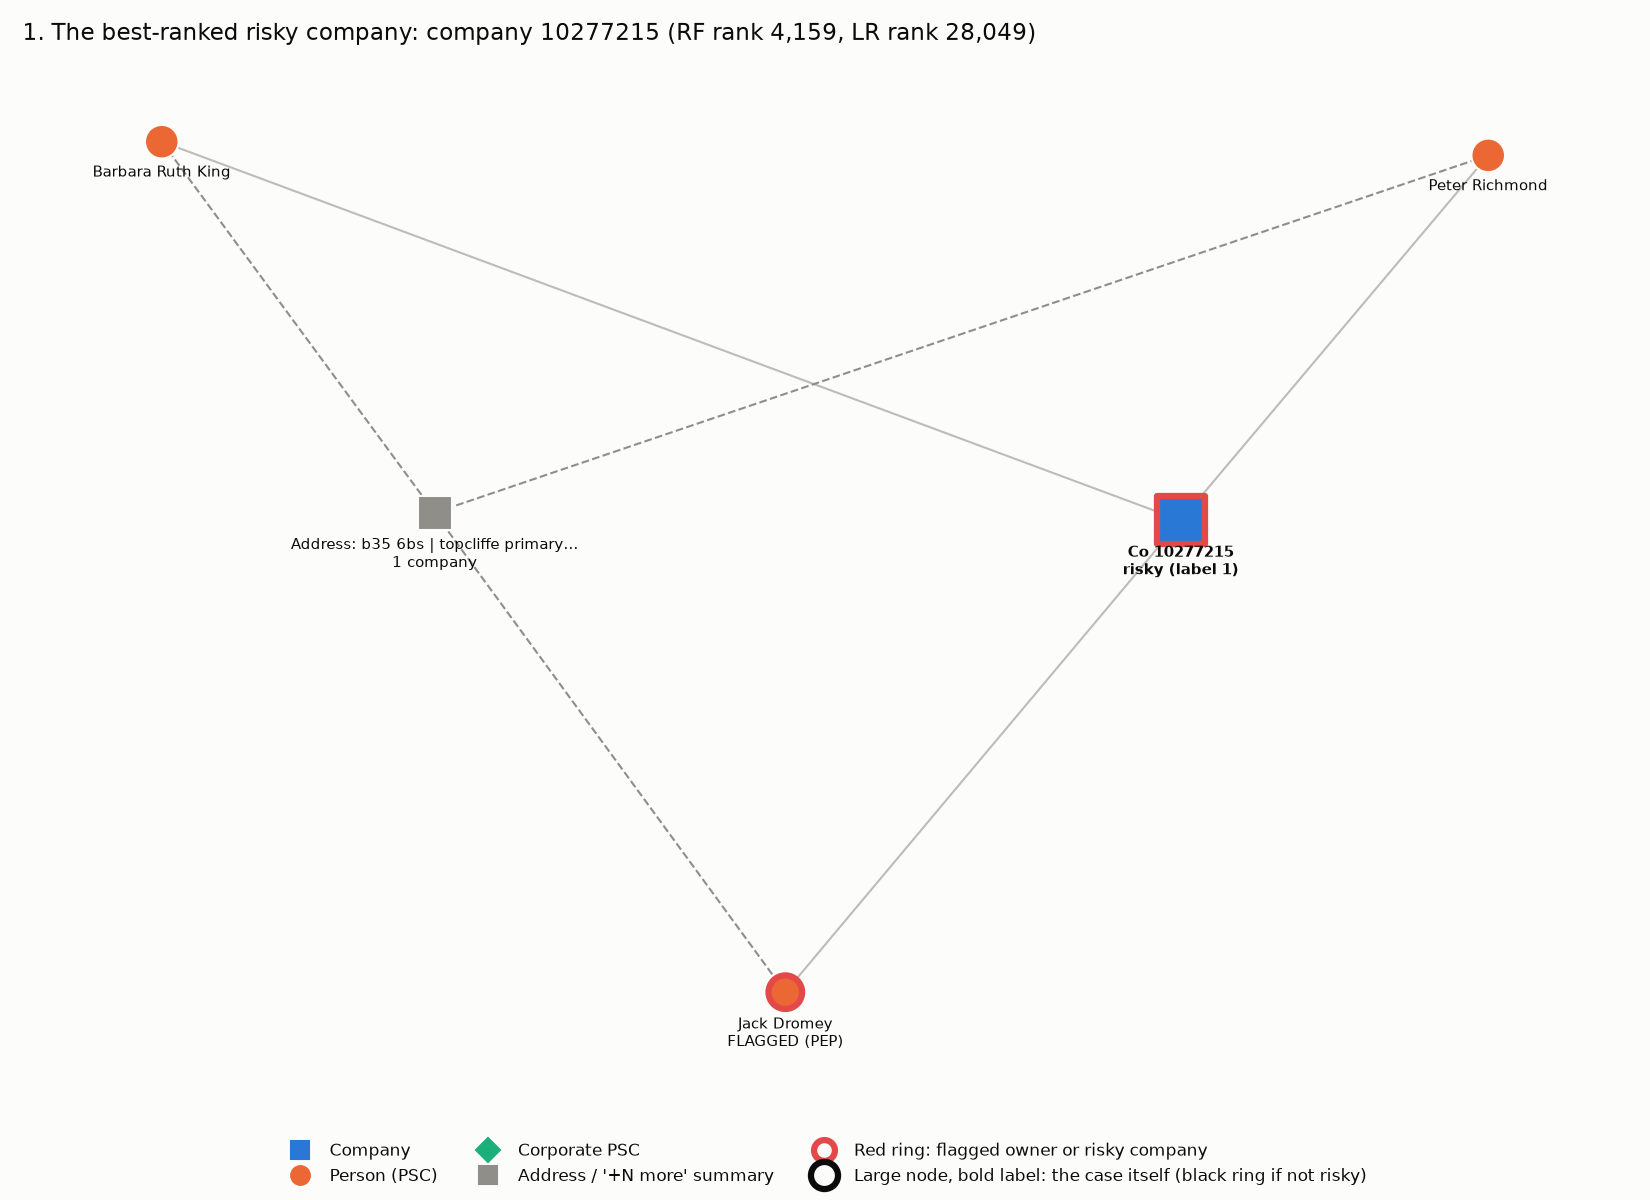
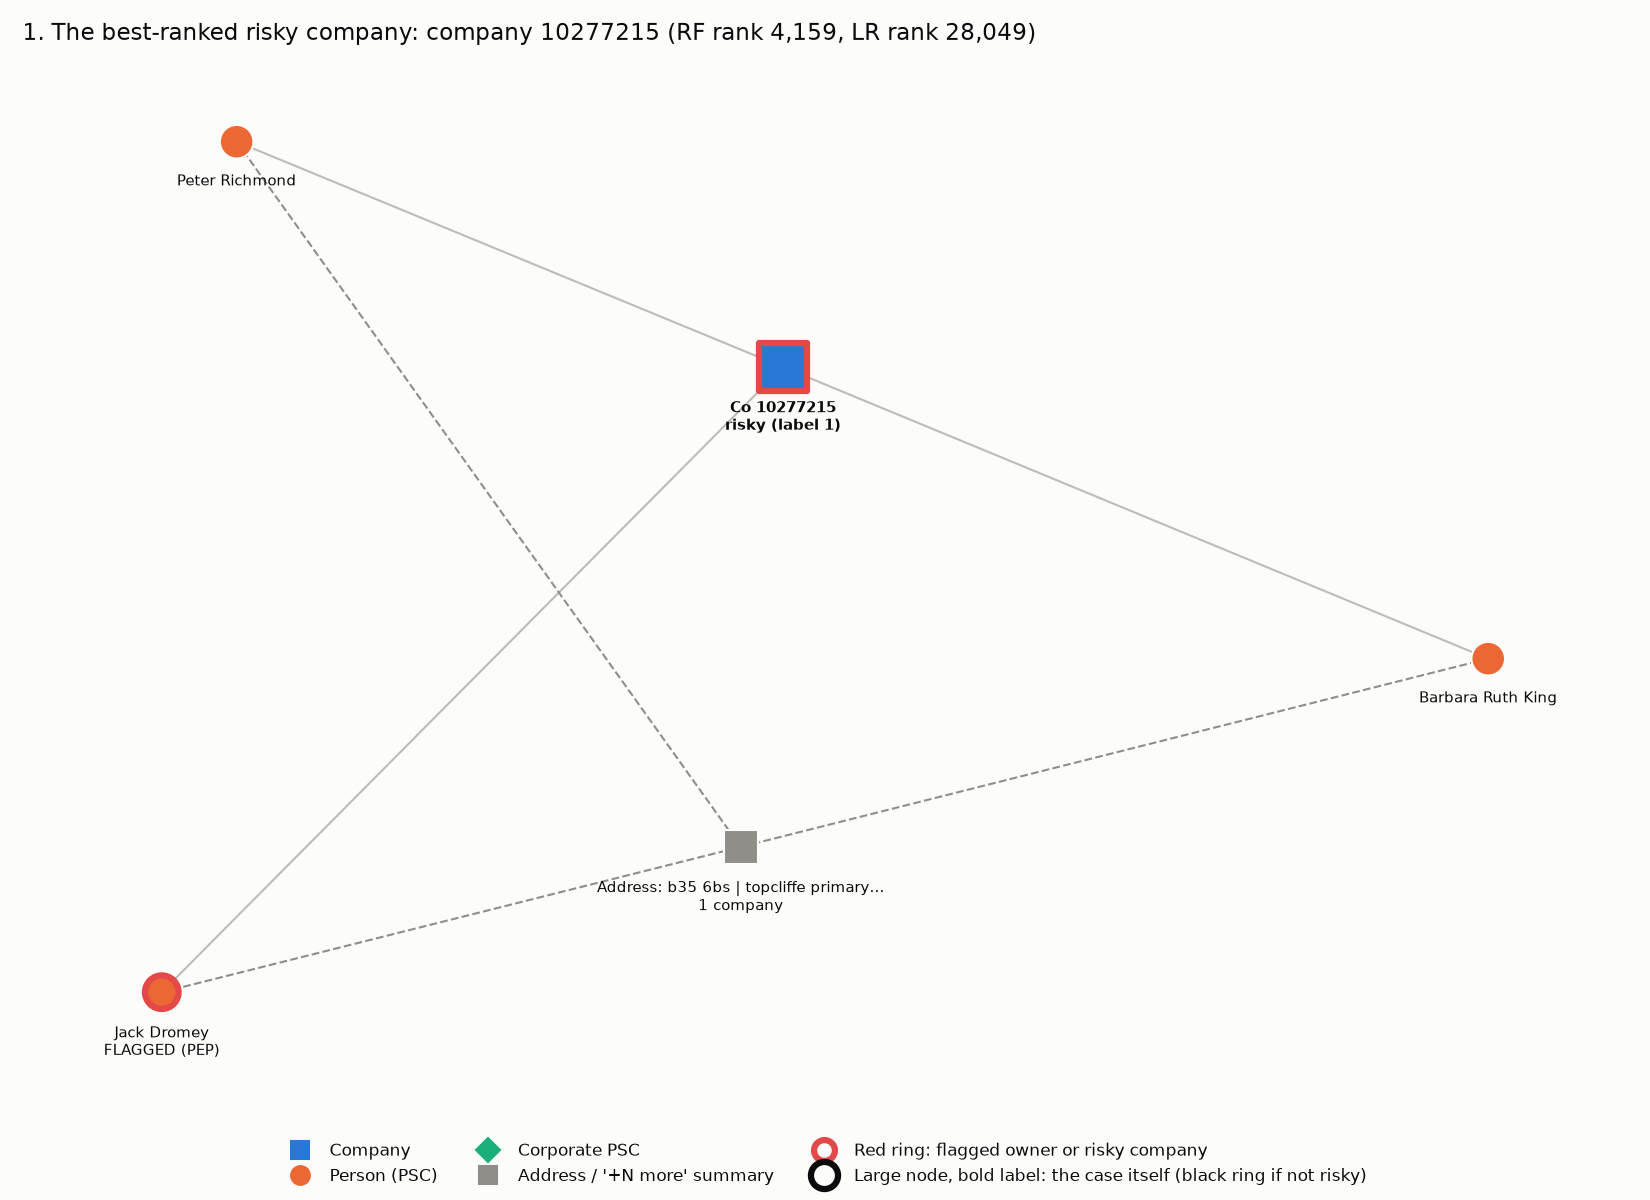
fix: make case-study network drawings deterministic

diff --git a/src/case_studies.py b/src/case_studies.py
@@ -240,8 +240,9 @@ def draw_case(graph, df_by_node, center, radius, title, path, important, extra_l
     """address_nodes: (label, [psc nodes]) pairs drawn as grey squares, dashed."""
     nodes, edges, more = neighbourhood(graph, center, radius, important)
     g = nx.Graph()
-    g.add_nodes_from(nodes)
-    g.add_edges_from(edges)
+    # sorted: set order varies between runs, and spring_layout depends on it
+    g.add_nodes_from(sorted(nodes))
+    g.add_edges_from(sorted(edges))
     for sid, (parent, _) in more.items():
         g.add_edge(sid, parent)
     for i, (_, pscs) in enumerate(address_nodes):
